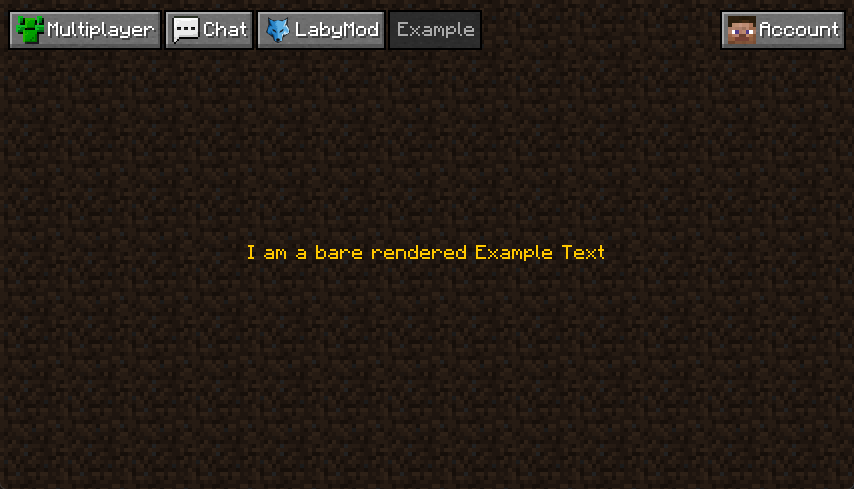
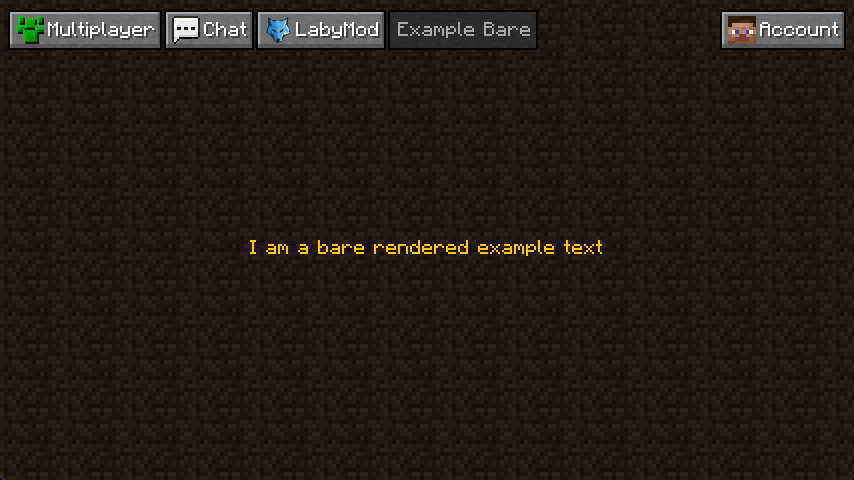
add widgets

diff --git a/docs/pages/addon/activities/widgets.md b/docs/pages/addon/activities/widgets.md
@@ -1,9 +1,89 @@
 # Use and Create Widgets
 
-## Use Widgets in Activites
+Widgets are a useful and easy way to customize your activities and they are the backbone of every themeable activity.
 
+## Use Widgets in Activities
+
+In this part we will show you how to use and integrate Widgets in your Activity. Looking back at our bare Activity example, we rendered the text `"I am a bare rendered example text"`, so we'll be using a ComponentWidget just this time with the text `"I am an example text rendered with a ComponentWidget"`. We're building onto the code from the previous example so if you haven't already gone through it, we recommend taking a look at it <a href="/pages/addon/activities/activity/">here</a>.
+
+???+ warning "Important Note"
+
+    Please keep in mind that we're explaining the Activity System in multiple steps. In this part of the page page, we will explain how to create Activities with Widets but without LSS. This is for example purposes only, we highly recommend using Widgets and LSS in your Activities, as the system is not optimized for Widgets without LSS. It is possible but don't expect that your code will work forever, there is a high chance that the methods you use will be deprecated at any time.
+
+Looking back at the bare Activity example, we remove the `render` method overwrite, as we don't need that anymore because the ComponentWidget will render the text for us. Now we overwrite the `initialize` method. Keep in mind that the super call has to be at the head of the method body. The method will be called any time the window is resized, the activity is manually reloaded or when the Activity was opened.
+
+Then we create a new ComponentWidget. In this case, we will simply create a non-translatable ComponentWidget by calling `ComponentWidget.text` and declare our text as the first parameter and because we want our text to be colored, we'll set the color color of our choice as the second parameter, in this case, Gold. The call should look like this in the end: `ComponentWidget.text("I am an example text rendered with a ComponentWidget", NamedTextColor.GOLD)`. Now we just declare it as a field and call `this.document().addChild(this.componentWidget)` as this will add the ComponentWidget to our Activity.
+
+Theoretically we could start the client and our text would be rendered. But we haven't set the position yet. As we'll only take a look at LSS in the next part, we need to set the position with our Java code. To do this we need to overwrite the protected void `postStyleSheetLoad` and again, keep the super call as it notifies all child widgets that the style sheets have been loaded. We don't use those yet but we leave the call in anyways. This method is called when all style sheets have been loaded and applied, just as the name suggests.
+
+Now we get the bounds of our activity with `this.bounds()` and the bounds of our ComponentWidget via `this.componentWidget.bounds()` and set the position of said widget with `widgetBounds.setPosition(activityBounds.getCenterX(), activityBounds.getCenterY()`. As we want the ComponentWidget to be centered we need also to add `this.componentWidget.alignmentX().set(WidgetAlignment.CENTER)` and `this.componentWidget.alignmentY().set(WidgetAlignment.CENTER)` this centers the Widget horizontally and vertically. 
+
+### Widget Activity Result
+
+Like with the bare Activity, this is what the code we described above would look like:
+
+=== ":octicons-file-code-16: ExampleBareActivity"
+    ```java
+    @AutoActivity
+    public class ExampleWidgetActivity extends SimpleActivity {
+    
+      private ComponentWidget componentWidget;
+    
+      @Override
+      public void initialize(Parent parent) {
+        super.initialize(parent);
+    
+        this.componentWidget = ComponentWidget.text(
+            "I am an example text rendered with a ComponentWidget",
+            NamedTextColor.GOLD
+        );
+        this.document().addChild(this.componentWidget);
+      }
+    
+      @Override
+      protected void postStyleSheetLoad() {
+        super.postStyleSheetLoad();
+    
+        Bounds activityBounds = this.bounds();
+        Bounds widgetBounds = this.componentWidget.bounds();
+        widgetBounds.setPosition(
+            activityBounds.getCenterX(),
+            activityBounds.getCenterY()
+        );
+    
+        this.componentWidget.alignmentX().set(WidgetAlignment.CENTER);
+        this.componentWidget.alignmentY().set(WidgetAlignment.CENTER);
+      }
+    
+      @Override
+      public <T extends LabyScreen> @Nullable T renew() {
+        return (T) new ExampleWidgetActivity();
+      }
+    }
+    ```
+
+=== ":octicons-file-media-24: Result"
+    ![Config-Result](/assets/files/screenshots/widget-activity-example.png)
 
 ## All Widgets
 
+todo: list all widgets
 
 ## Create Your Own Widget
+
+You not only can use the Widgets we created, but you can also create your very own ones. 
+In this small example, we will show you how to create your first Widget and how to add it to your Activity. 
+The result of our little example will be a widget that displays a player's head to the left and a player's name. 
+This widget will be applied in a vertical list with multiple entries.
+
+???+ warning "Important Note"
+
+    This example will also be without the use of LSS. You can find the same Widget just with LSS on the next page about LSS.
+
+We start by creating a new class and inheriting `SimpleWidget`. `SimpleWidget` only does one thing, it inherits from `AbstractWidget` with the type `Widget`. The type on the `AbstractWidget` declares what type the children have to be. In this case, it's `Widget` and therefore you can add any widget you want as a child. But if you only want ComponentWidgets as children, you can inherit `AbstractWidget` and set the type parameter to `ComponentWidget`. This will only allow the children to be or inherit `ComponentWidget`.
+
+We'll continue by creating a constructor with a String as the parameter. This String will represent the name of the player. 
+Now we overwrite the `initialize` method and declare a new `HorizontalListWidget` as a local variable. The `HorizontalListWidget` does what it's named after, it's a horizontal list. The counterpart is the `VerticalListWidget`, but we'll use that one later.
+The `HorizontalListWidget` allows us to list our widgets horizontally while setting the position of the children automatically. We could also inherit the `HorizontalListWidget` directly but let's assume there is a reason we're not.
+
+Now we create a new `IconWidget`...

diff --git a/docs/pages/addon/activities/activity.md b/docs/pages/addon/activities/activity.md
@@ -18,7 +18,7 @@ After we inherited the Activity superclass (or one of its extensions), we need t
 
 In this case, we want to render a text at the center of the screen, and as we are creating a bare Activity, we'll overwrite the `render` method. (please keep in mind that the super call has to be at the head of the method. Otherwise, our text will be rendered beneath the background). 
 
-All we have to do now is to get the bounds of the activity (the bounds represent the position and size of activities and widgets). More on that on the next page about widgets. Then we need get the `TextRenderer` by calling `this.labyAPI.renderPipeline().textRenderer()` as we will render our text with that renderer. 
+All we have to do now is to get the bounds of the activity by declaring `this.bounds()` as a local variable (the bounds represent the position and size of activities and widgets - more on that in the part about LSS). Then we need get the `TextRenderer` by calling `this.labyAPI.renderPipeline().textRenderer()` as we will render our text with that renderer. 
 
 Now to the rendering, apply your text to the renderer by using the setter `text`, our text is the String `"I am a bare rendered example text"`, so we use `textRenderer.text("I am a bare rendered example text")`, after that we set our position with the bounds we got before. As we want the text centered we need the `centerX` and `centerY` float and set them via `textRenderer.pos(bounds.getCenterX(), bounds.getCenterY())`. 
 
@@ -26,7 +26,7 @@ We could theoretically render it now but we want to adjust the renderer a bit. A
 
 Now as all is set as we want, we can call `textRenderer.render(stack)` and we are finished. 
 
-## Bare Activity Example
+### Bare Activity Result
 
 Looking back at what we just wrote, this is what the code and result would look like:
 
@@ -39,11 +39,14 @@ Looking back at what we just wrote, this is what the code and result would look 
       public void render(Stack stack, MutableMouse mouse, float partialTicks) {
         super.render(stack, mouse, partialTicks);
     
-        Bounds bounds = this.getBounds();
+        Bounds bounds = this.bounds();
         TextRenderer textRenderer = this.labyAPI.renderPipeline().textRenderer();
         textRenderer.text("I am a bare rendered example text")
             .pos(bounds.getCenterX(), bounds.getCenterY())
-            .centered(true).shadow(false).color(Color.ORANGE.getRGB()).render(stack);
+            .centered(true)
+            .shadow(false)
+            .color(Color.ORANGE.getRGB())
+            .render(stack);
       }
     
       @Override

diff --git a/docs/pages/addon/additional-infos.md b/docs/pages/addon/additional-infos.md
@@ -4,4 +4,4 @@ Here you can find some information about things that didn't really fit anywhere 
 
 ## Why Is the Naming on Some of Our Methods So Weird?
 
-We've decided to change how we name our getters. The "established" naming for getters would be `getSomething()` but we've decided as an "internal naming convention", that the getters of non-primitive data types don't have the "get" prefix but instead are just called by their name. So instead of for example `getPrefix()` you'll only find `prefix()`, as the returned type would be a String. In cases where a getter returns a primive data type, for example `getCount()`, which would return an int, the prefix stays.
+We've decided to change how we name our getters & setters. The "established" naming for getters would be `getSomething()` but we've decided as an "internal naming convention", that getters that can't return `null` and return a type created by us, don't have the `get` prefix but instead are just called by their name. So instead of for example `getMinecraft()` you'll only find `minecraft()`. Setters would normally have the prefix `set`. But if the setter is returning the same type of the class it is in, the `set` prefix will also be removed (this is most common in builders, so for example in our renderers. instead of `setPos(x, y)`, you'll only find `pos(x, y)`).
